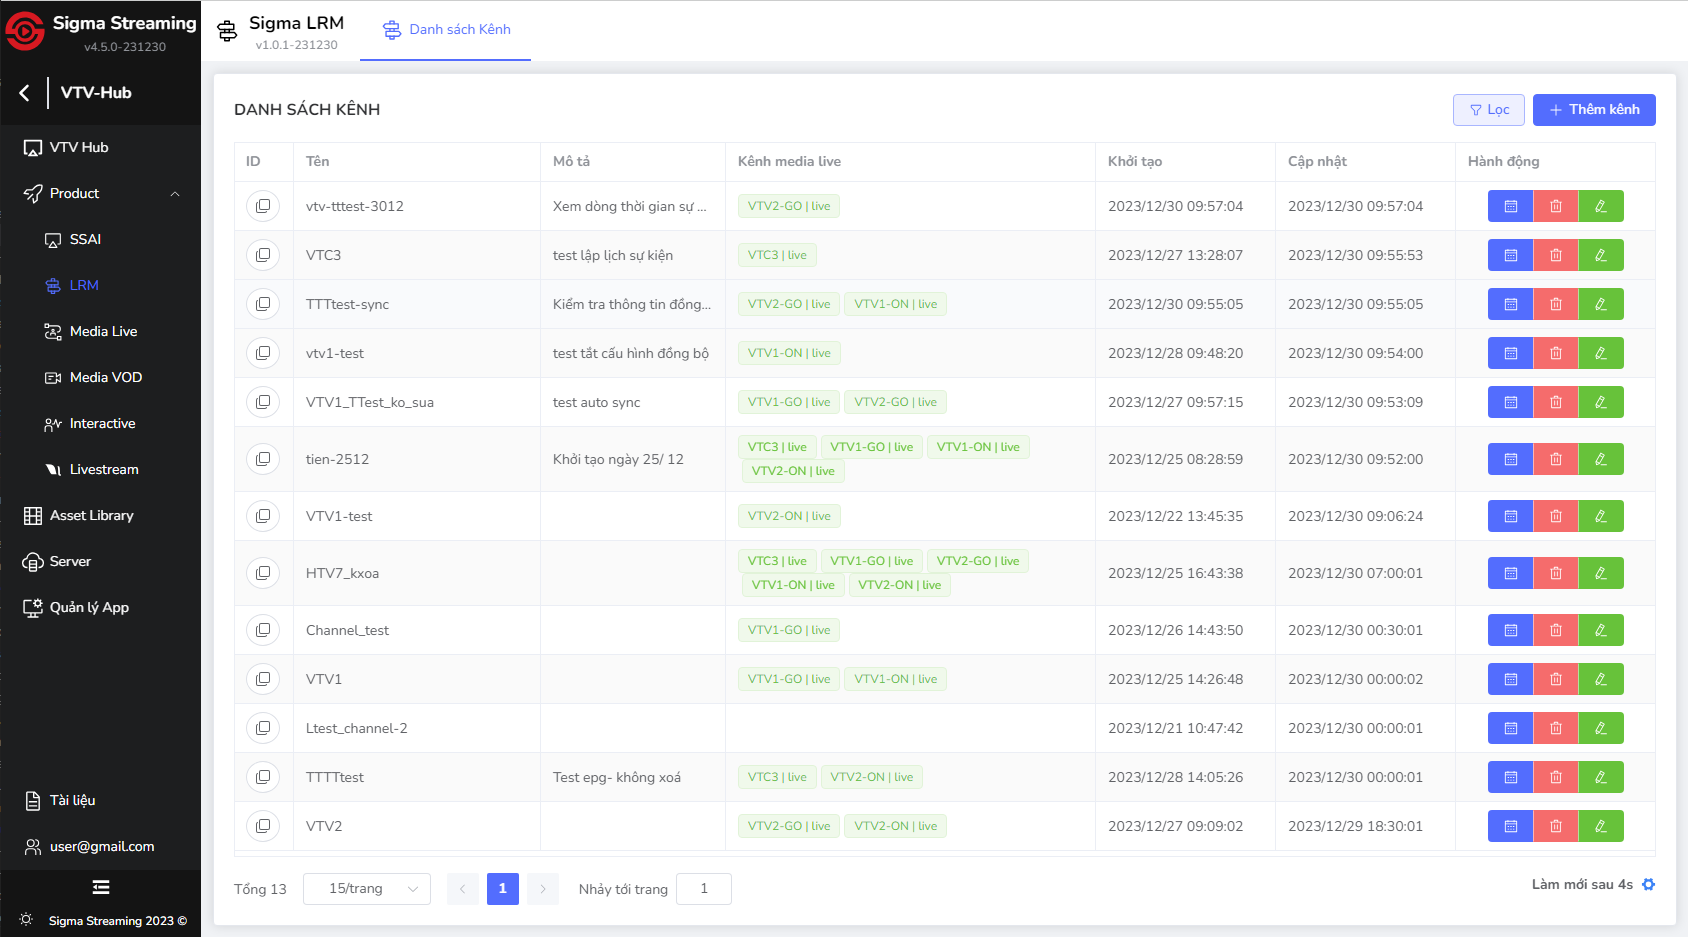
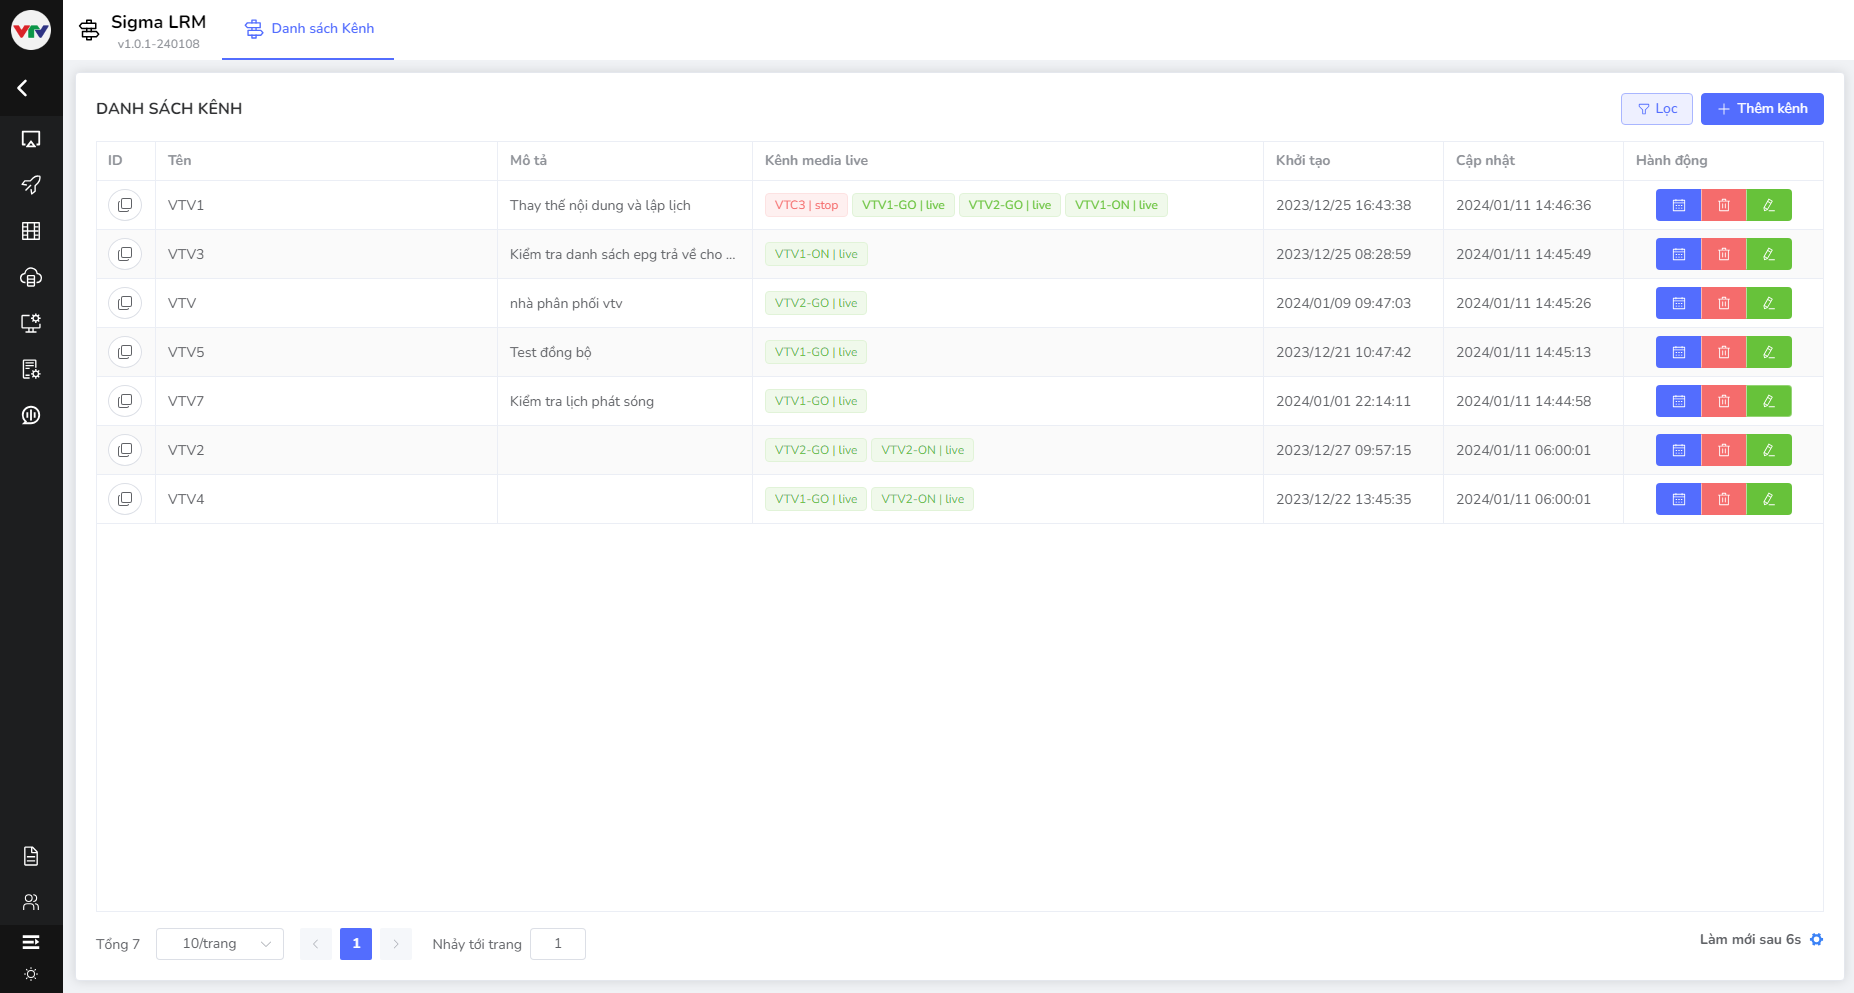
add image and link lrm

diff --git a/docs/vi/sigma-lrm/05-user-guide/b-detail-channel/2-epg/2.3-edit-epg.md b/docs/vi/sigma-lrm/05-user-guide/b-detail-channel/2-epg/2.3-edit-epg.md
@@ -6,24 +6,24 @@ order: 3
 Sau khi tạo chương trình, người dùng cập nhật thông tin chương trình để sửa thông tin theo mong muốn.
 
 ### Tại thông tin chương trình
-Chỉnh sửa từng chương trình ngay trên lịch phát sóng, mở [thông tin chương trình](2-epg-list#xem-thông-tin-từng-chương-trình).
+Chỉnh sửa từng chương trình ngay trên lịch phát sóng, mở [thông tin chương trình](./2.2-epg-list#xem-thông-tin-từng-chương-trình).
 
-Sau đó, nhấp vào biểu tượng chỉnh sửa.
+Sau đó, nhấp vào biểu tượng `Sửa`.
 ### Tại danh sách chương trình
-Khi di chuyển chuột vào biểu tượng **Sửa** trong cột hành động, hiển thị dòng **Chỉnh sửa**.
+Khi di chuyển chuột vào biểu tượng `Sửa` trong cột hành động, hiển thị dòng **Chỉnh sửa**.
 
-**Bước 2:** Nhấp vào biểu tượng **Chỉnh sửa**.
+**Bước 2:** Nhấp vào biểu tượng `Sửa`.
 
 Hệ thống sẽ mở Pop-up **Chỉnh sửa chương trình** ở góc phải màn hình với thông tin đã được nhập trước đó. 
 
-<!-- ![]() -->
+![](/docs/images/lrm/pop-up/update-epg.png)
 
 - Cho phép cập nhật tất cả nội dung chương trình.
 - Không cho phép cập nhật trùng start time EPG đang có.
 
 Khi người dùng nhấn vào biểu tượng Chỉnh sửa, hệ thống cho phép chỉnh sửa chương trình ngay cả chương trình có thời gian kết thúc trước thời điểm cập nhật.
 
-**Bước 3:** Người dùng CMS thực hiện chỉnh sửa các thông tin phù hợp và sau đó bấm **Lưu**.
+**Bước 3:** Người dùng CMS thực hiện chỉnh sửa các thông tin phù hợp và sau đó bấm `Xác nhận`.
 
 Hệ thống thực hiện lưu các thông tin mới vừa được cập nhật, hiển thị thông báo cập nhật thành công ở góc phải màn hình và tự động đóng trong 5 giây.
  
@@ -34,4 +34,4 @@ Hệ thống thực hiện lưu các thông tin mới vừa được cập nhậ
 ### Chỉnh sửa chương trình không thành công
 Tương tự như việc tạo mới chương trình, để tránh xung đột chúng tôi không cho phép chọn thời gian bắt đầu trùng với chương trình đã có.
 
-Người dùng sẽ nhận được thông báo lỗi và có thể thay đổi thời gian bắt đầu để chỉnh sửa chương trình. Hãy xem [thông báo lỗi](./1-create-epg#tạo-mới-chương-trình-không-thành-công) để biết thêm chi tiết.
+Người dùng sẽ nhận được thông báo lỗi và có thể thay đổi thời gian bắt đầu để chỉnh sửa chương trình. Hãy xem [thông báo lỗi](./2.1-create-epg#tạo-mới-chương-trình-không-thành-công) để biết thêm chi tiết.

diff --git a/docs/vi/sigma-lrm/05-user-guide/b-detail-channel/2-epg/2.2-epg-list.md b/docs/vi/sigma-lrm/05-user-guide/b-detail-channel/2-epg/2.2-epg-list.md
@@ -26,21 +26,23 @@ Hoặc tạo từng chương trình riêng lẻ [tạo mới chương trình](./
 
 Danh sách chương trình hiển thị các thông tin cơ bản như sau:
 
+![](/docs/images/lrm/list/program.png)
+
 - ID: Sau khi người dùng tạo chương trình mới, hệ thống sẽ tạo một ID riêng cho kênh để nhận dạng. Hiển thị dưới dạng nút cho phép di chuột để xem đầy đủ nội dung ID. Nhập chuột để sao chép ID và hiển thị thông báo thành công.
 - Tên: Tên của chương trình được cấu hình bởi người dùng.
 - Mô tả: Thông tin thêm về lịch phát sóng được nhập bởi người dùng. Nếu tên quá dài và vượt quá 2 dòng, hiển thị tooltip với tên đầy đủ khi di chuột vào.
 - Thời gian bắt đầu: Thời gian bắt đầu chạy chương trình. Định dạng giờ: phút: giây
 - Thời gian kết thúc: Thời gian kết thúc chạy chương trình. Thời gian kết thúc của chương trình liền trước là thời gian bắt đầu của chương trình liền sau. Định dạng giờ: phút: giây
 - Hành động: 
-    - [Ẩn/ hiện chương trình](./4-display.md):  Khi nhấp vào nút này, hệ thống đánh dấu lịch phát sóng ẩn/ hiện trên dòng thời gian. 
-    - [Chỉnh sửa chương trình](./3-edit-epg.md): Khi nhấp vào nút này, hệ thống mở pop-up chỉnh sửa chương trình góc phải màn hình.
-     - [Xoá chương trình](./8-delete-epg.md): Khi nhấp vào nút này, hiển thị pop-up xác nhận.
+    - [Ẩn/ hiện chương trình](./2.4-display.md):  Khi nhấp vào nút này, hệ thống đánh dấu lịch phát sóng ẩn/ hiện trên dòng thời gian. 
+    - [Chỉnh sửa chương trình](./2.3-edit-epg.md): Khi nhấp vào nút này, hệ thống mở pop-up chỉnh sửa chương trình góc phải màn hình.
+     - [Xoá chương trình](./2.8-delete-epg.md): Khi nhấp vào nút này, hiển thị pop-up xác nhận.
 
 ### Xem thông tin từng chương trình
 Hỗ trợ người dùng xem đầy đủ thông tin từng chương trình ngay trên lịch phát sóng theo các bước sau:
 1. Nhấp vào chương trình cụ thể trên lịch phát sóng.
 2. Hệ thống hiển thị pop-up Thông tin chương trình, cho phép thực hiện các hành động:
-- [Tạo sự kiện](../c-event/1-create-event.md)
-- [Ẩn/ hiện chương trình](./4-display.md)
-- [Chỉnh sửa chương trình](./3-edit-epg.md)
-- [Xoá chương trình](./8-delete-epg.md)
+- [Tạo sự kiện](../3-event/1-create-event.md)
+- [Ẩn/ hiện chương trình](./2.4-display.md)
+- [Chỉnh sửa chương trình](./2.3-edit-epg.md)
+- [Xoá chương trình](./2.8-delete-epg.md)

diff --git a/docs/vi/sigma-lrm/05-user-guide/b-detail-channel/2-epg/2.4-display.md b/docs/vi/sigma-lrm/05-user-guide/b-detail-channel/2-epg/2.4-display.md
@@ -15,24 +15,24 @@ Tính năng này cho phép quản trị viên hoặc người sử dụng có qu
 ## Ẩn chương trình
 
 ### Tại thông tin chương trình
-Ẩn/ hiện từng chương trình ngay trên lịch phát sóng, mở  [thông tin chương trình](2-epg-list#xem-thông-tin-từng-chương-trình).
+Ẩn/ hiện từng chương trình ngay trên lịch phát sóng, mở [thông tin chương trình](./2.2-epg-list#xem-thông-tin-từng-chương-trình).
 
-Sau đó, nhấp vào biểu tượng **ẩn**.
+Sau đó, nhấp vào biểu tượng `Ẩn`.
 ### Tại danh sách chương trình
-Khi di chuyển chuột vào biểu tượng **ẩn** trong cột hành động, hiển thị dòng **ẩn**.
+Khi di chuyển chuột vào biểu tượng `Ẩn` trong cột hành động, hiển thị dòng **ẩn**.
 
 **Bước 1**: 
-Người dùng nhấp vào biểu tượng **ẩn** của chương trình bạn muốn ẩn.
+Người dùng nhấp vào biểu tượng `Ẩn` của chương trình bạn muốn ẩn.
 Hệ thống hiển thị Pop-up xác nhận ở giữa màn hình:
 
- <!-- ![]() -->
+ ![](/docs/images/lrm/pop-up/hide-epg.PNG)
 
  * Tiêu đề: Ẩn chương trình trong danh sách trả về cho đối tác.
- * Nút **Huỷ bỏ**: Không thực hiện thay đổi, quay lại màn hình tab sự kiện
- * Nút **Xác nhận**: Hệ thống thực hiện ẩn thông tin của chương trình.
+ * Nút `Huỷ bỏ`: Không thực hiện thay đổi, quay lại màn hình tab sự kiện
+ * Nút `Xác nhận`: Hệ thống thực hiện ẩn thông tin của chương trình.
 
 **Bước 2**: 
-Người dùng nhấp vào nút **Xác nhận** để ẩn thông tin của chương trình.
+Người dùng nhấp vào nút `Xác nhận` để ẩn thông tin của chương trình.
 
 Hệ thống hiển thị Pop-up thông báo ở phía trên màn hình.
 
@@ -40,6 +40,8 @@ Hệ thống hiển thị Pop-up thông báo ở phía trên màn hình.
  *Thông báo: Hành động được thực hiện thành công!*
 
 Chương trình hiển thị lịch phát sóng ở dòng thời gian sự kiện được đánh dấu với **tag ẩn**. Đồng thời, **không hiển thị** lịch phát sóng ở danh sách trả về cho partner.
+
+![](/docs/images/lrm/timeline/timeline.png)
 
 ## Hiện chương trình
 Sau khi chương trình bị ẩn, người dùng muốn hiển thị chương trình. Chức năng hiển thị được thực hiện tương tự như việc ẩn chương trình.

diff --git a/docs/vi/sigma-lrm/05-user-guide/b-detail-channel/1-event-lrm.md b/docs/vi/sigma-lrm/05-user-guide/b-detail-channel/1-event-lrm.md
@@ -40,13 +40,13 @@ Mỗi sự kiện, ngay sau khi được tạo, sẽ được phân loại vào 
 
 Mỗi nút thực hiện một nhiệm vụ riêng biệt, vui lòng xem cách mỗi button thực hiện chức năng của mình.
 
-- [Nhập chương trình](./b-epg/5-import-epg.md)
+- [Nhập chương trình](./2-epg/2.5-import-epg.md)
 
-- [Xuất chương trình](./b-epg/6-export-epg.md)
+- [Xuất chương trình](./2-epg/2.6-export-epg.md)
 
-- [Tạo chương trình](./b-epg/1.create-epg.md)
+- [Tạo chương trình](./2-epg/2.1-create-epg.md)
 
-- [Thêm sự kiện](./c-event/1-create-event.md)
+- [Thêm sự kiện](./3-event/1-create-event.md)
 
 ### Hiển thị
 
@@ -64,7 +64,7 @@ Ba loại sự kiện: SCTE35, Live, VOD
 - Hiển thị **nội dung đa phương tiện** với loại sự kiện **Live** và loại sự kiện **VOD**|hình thức **nội dung thay thế**.
 - Hiển thị biểu tượng **đồng hồ** (hover để xem Lịch sự kiện) cho những sự kiện với kiểu xuất bản là lập lịch.
 <!-- - Hiển thị biểu tượng **đồng bộ** (hover để xem Đã đồng bộ) cho những sự kiện đã được đồng bộ. -->
-- Nhấp vào sự kiện hiển thị cửa sổ [cập nhật sự kiện](./c-event/3-event/3.2-edit.md).
+- Nhấp vào sự kiện hiển thị cửa sổ [cập nhật sự kiện](./3-event/3-event/3.2-edit.md).
 
 Các element khác trong giao diện:
 - **Thanh trượt** chạy từ 00:00 đến 24:00 của 1 ngày và cách đều nhau 6 tiếng, người dùng có thể thực hiện các thao tác trượt đoạn thời gian giúp lọc thông tin trên dòng dự kiện.
@@ -78,8 +78,8 @@ Các element khác trong giao diện:
 
 Ba danh sách ở section cuối, mặc định hiển thị danh sách chương trình.
 
-[Danh sách chương trình](./b-epg/1-epg-list.md)
+- [Danh sách chương trình](./2-epg/2.2-epg-list.md)
 
-[Danh sách sự kiện](./c-event/3-event/3.1-view.md)
+- [Danh sách sự kiện](./3-event/3-event/3.1-view.md)
 
-[Danh sách sự kiện lập lịch](./c-event/2-event-echedule/2.1-view.md)
+- [Danh sách sự kiện lập lịch](./3-event/2-event-echedule/2.1-view.md)

diff --git a/docs/vi/sigma-lrm/05-user-guide/b-detail-channel/2-epg/2.7-manual-sync.md b/docs/vi/sigma-lrm/05-user-guide/b-detail-channel/2-epg/2.7-manual-sync.md
@@ -13,25 +13,26 @@ Có hai trường hợp cụ thể:
 Các thay đổi liên quan đến hiển thị lịch phát sóng trong ngày được chọn để thực hiện thao tác.
 
 ### Chủ động đồng bộ khi danh sách chương trình trống
-Khi kênh được cấu hình để đồng bộ nhưng [danh sách chương trình trống](../a-open-detail#danh-sách) thay vì nhập lịch phát sóng từ một file Excel, người dùng có thể chủ động đồng bộ lịch phát sóng.
+Khi kênh được cấu hình để đồng bộ nhưng [danh sách chương trình trống](../2-epg/2.2-epg-list#danh-sách-trống) thay vì nhập lịch phát sóng từ một file Excel, người dùng có thể chủ động đồng bộ lịch phát sóng.
 
 ### Chủ động đồng bộ trên header
-Kênh có cấu hình đồng bộ, button chủ động đồng bộ hiển thị mặc định ở header.
+Kênh có cấu hình đồng bộ, nút `chủ động đồng bộ` hiển thị mặc định ở header.
 
 **Bước 1**: Người dùng nhấp vào nút **Đồng bộ**.
 
-Hệ thống hiển thị pop-up Đồng bộ lịch phát sóng.
+Hệ thống hiển thị pop-up Đồng bộ lịch phát sóng:
+
+![](/docs/images/lrm/pop-up/manual-sync.png)
 
 ### Phương thức
 Thực hiện chọn hương thức đồng bộ hóa:
-    - Mặc định chọn:"Cả ngày"
+    - Mặc định chọn: **Cả ngày**
     - Từ thời điểm thực hiện thao tác.
 
 **Bước 2**: Người dùng nhấp vào nút đồng bộ để đồng bộ lịch phát sóng.
 
 Hệ thống hiển thị Pop-up thông báo ở phía trên màn hình.
 
- ![](/images/lrm/pop-up/manual-sync.png)
  *Thông báo: Đồng bộ lịch phát sóng thành công!*
 
 Sau khi đồng bộ, hiển thị chương trình mới lên lịch phát sóng và danh sách chương trình theo phương thức đã lựa chọn.

diff --git a/docs/vi/sigma-lrm/05-user-guide/a-channel/c-edit.md b/docs/vi/sigma-lrm/05-user-guide/a-channel/c-edit.md
@@ -14,10 +14,12 @@ Người dùng của hệ thống quản lý nội dung (CMS) có thể thực h
 
 Tại giao diện màn hình chính, người dùng có thể thực hiện chỉnh sửa bằng cách di chuyển chuột vào biểu tượng Sửa ở cột Hành động tại trường mong muốn.
 
-**Bước 2:** Khi người dùng nhấp vào biểu tượng chỉnh sửa, hệ thống sẽ hiển thị một cửa sổ pop-up **Cập nhật chỉnh sửa kênh** tại góc phải của màn hình, hiển thị các thông tin đã nhập trước đó.
+**Bước 2:** Khi người dùng nhấp vào biểu tượng chỉnh sửa, hệ thống sẽ hiển thị một cửa sổ pop-up **Cập nhật chỉnh sửa kênh** giữa màn hình, hiển thị các thông tin đã nhập trước đó.
+
+![](/docs/images/lrm/pop-up/update-lrm.png)
 
 *Pop-up Cập nhật chỉnh sửa kênh*
 
-**Bước 3:** Sau khi người dùng thực hiện các thay đổi và nhấn nút Lưu, hệ thống sẽ tự động lưu thông tin mới được cập nhật. Một thông báo về việc cập nhật thành công sẽ xuất hiện ở góc phải của màn hình, và sau đó, cửa sổ sẽ tự động đóng sau 5 giây.
+**Bước 3:** Sau khi người dùng thực hiện các thay đổi và nhấn nút Lưu, hệ thống sẽ tự động lưu thông tin mới được cập nhật. Một thông báo về việc cập nhật thành công sẽ xuất hiện phía trên màn hình, và sau đó cửa sổ sẽ tự động đóng sau 5 giây.
 
 *Thông báo:Cập nhật kênh thành công!*

diff --git a/docs/vi/sigma-lrm/05-user-guide/b-detail-channel/2-epg/2.8-delete-epg.md b/docs/vi/sigma-lrm/05-user-guide/b-detail-channel/2-epg/2.8-delete-epg.md
@@ -21,7 +21,7 @@ Trong danh sách chương trình, khi di chuyển chuột vào biểu tượng *
 
 Hệ thống hiển thị Pop-up xác nhận ở giữa màn hình:
 
- <!-- ![]() -->
+ ![](/docs/images/lrm/pop-up/delete-epg.png)
 
  * Tiêu đề: Bạn chắc chắn muốn xoá chương trình?
  * Nút **Không**: Không thực hiện thay đổi, quay lại màn hình tab sự kiện

diff --git a/docs/vi/sigma-lrm/05-user-guide/a-channel/a-view-list.md b/docs/vi/sigma-lrm/05-user-guide/a-channel/a-view-list.md
@@ -9,7 +9,7 @@ Tại màn hình chính hệ thống chọn **Danh sách kênh**
 
 Màn hình chính hệ thống hiển thị:
 
-![](/images/lrm/list/channel-lrm.png)
+![Danh sách kênh](/docs/images/lrm/list/channel-lrm.png)
 
 
 * Các thông tin được hiển thị trong giao diện:
